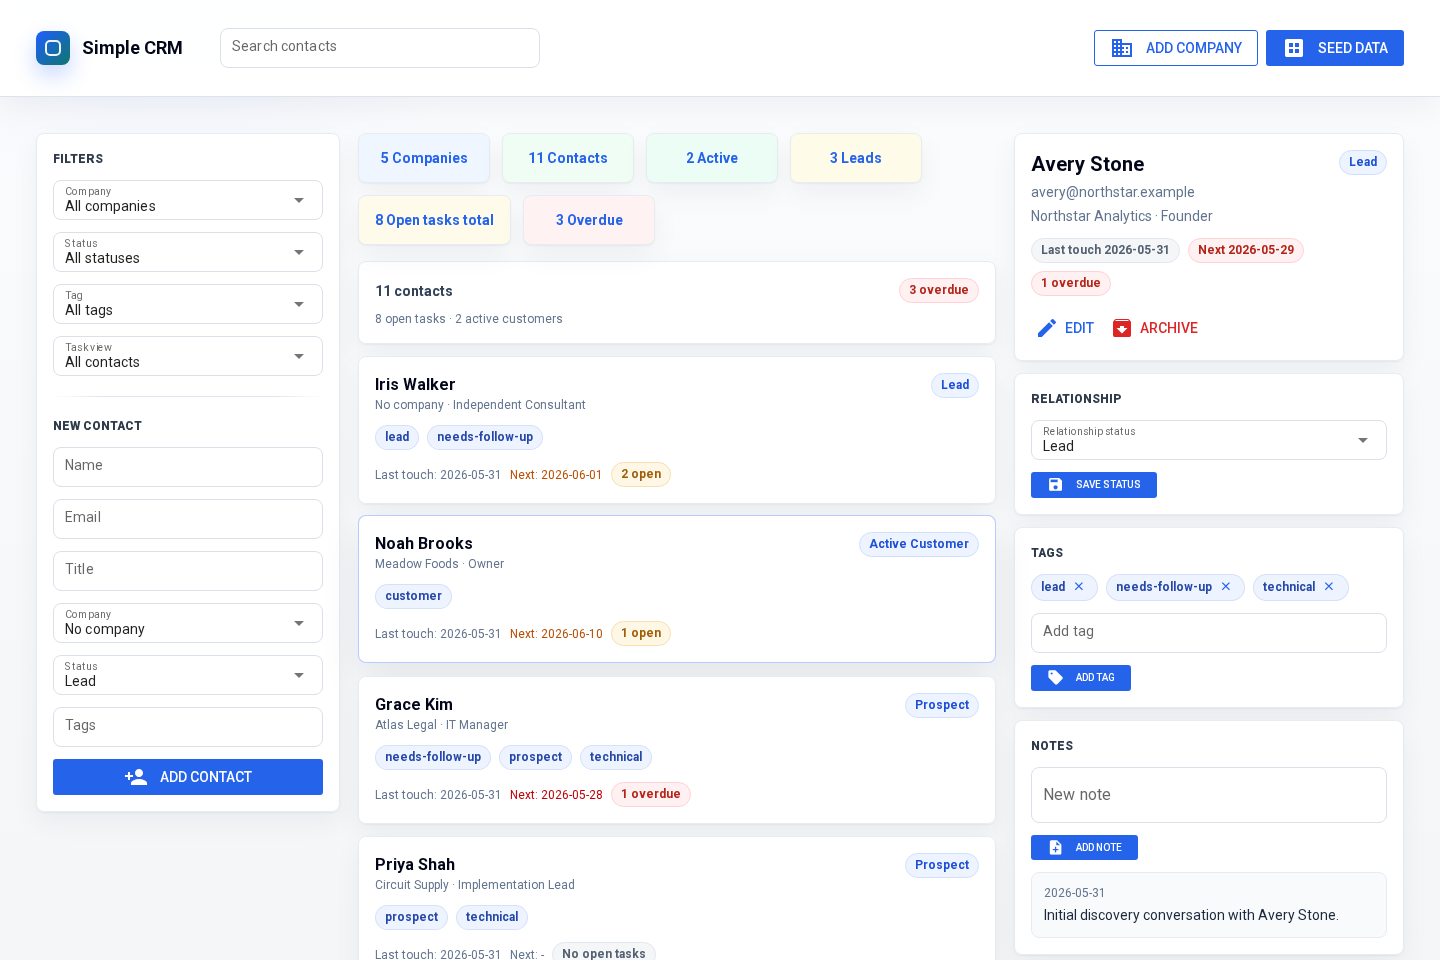
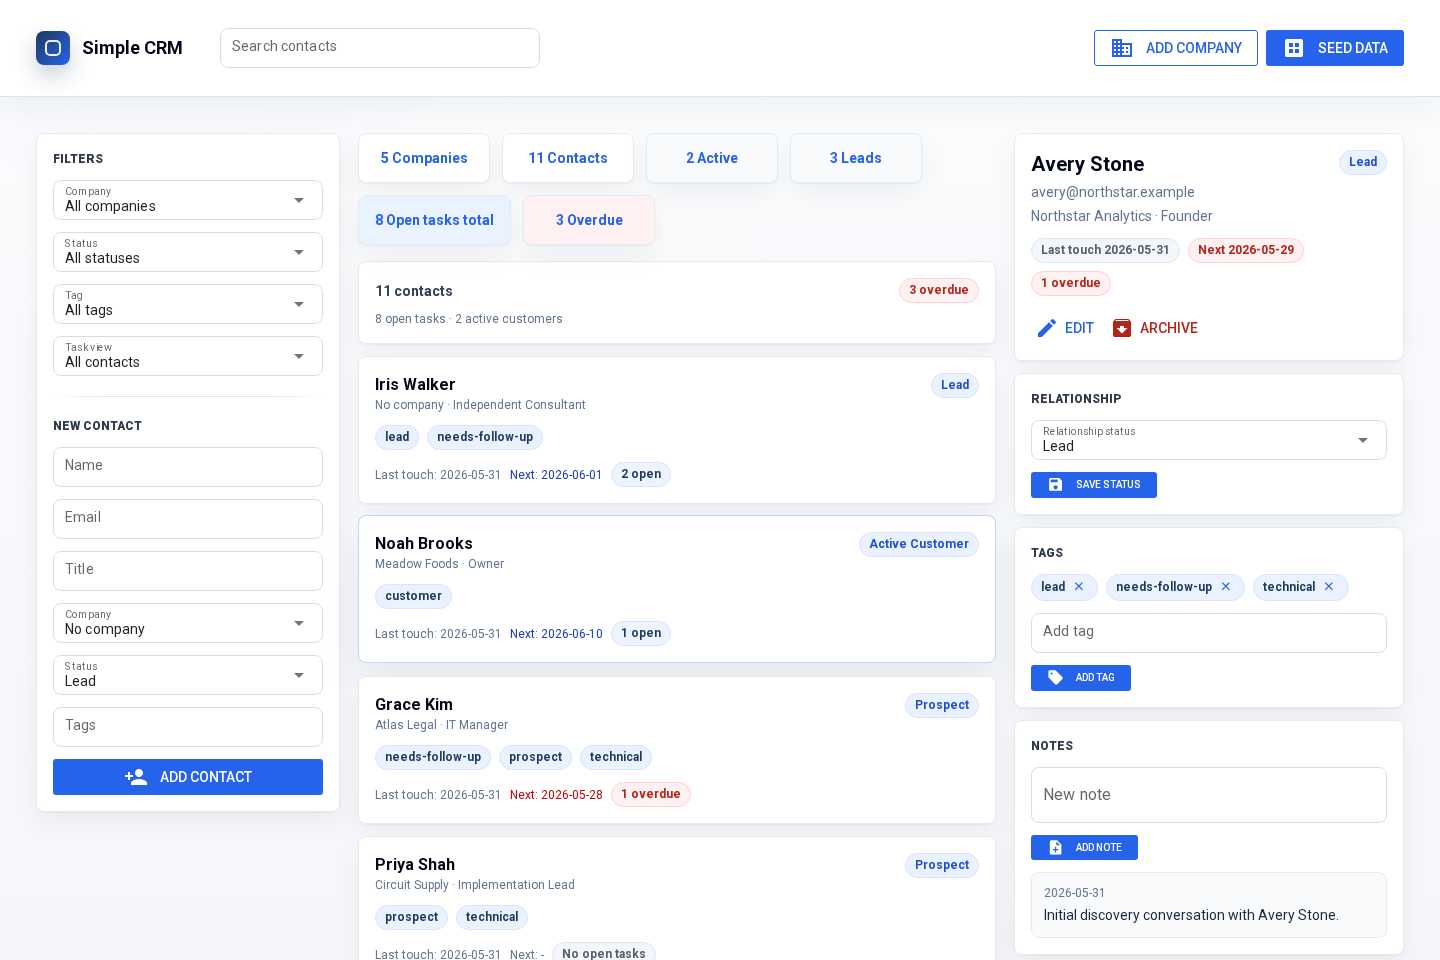
color updates

diff --git a/app.py b/app.py
@@ -112,27 +112,30 @@ def crm_page() -> None:
         "page_size": 10,
     }
 
-    ui.colors(primary="#2563eb", secondary="#0f766e", accent="#d97706", positive="#059669", negative="#dc2626")
+    ui.colors(primary="#2563eb", secondary="#1e3a5f", accent="#647084", positive="#2563eb", negative="#b42318")
     ui.add_head_html(
         """
         <style>
         :root {
-            --crm-bg: #f4f6f8;
+            --crm-bg: #f5f7fa;
             --crm-surface: #ffffff;
             --crm-surface-soft: #f8fafc;
-            --crm-text: #111827;
-            --crm-muted: #667085;
-            --crm-border: #d9e0e8;
-            --crm-border-soft: #e7ecf2;
-            --crm-primary: #1f5eff;
-            --crm-primary-dark: #1747c7;
-            --crm-shadow: 0 16px 42px rgba(15, 23, 42, 0.08);
+            --crm-text: #172033;
+            --crm-muted: #647084;
+            --crm-border: #d8dee8;
+            --crm-border-soft: #e6ebf2;
+            --crm-primary: #2563eb;
+            --crm-primary-dark: #1e3a5f;
+            --crm-primary-soft: #eaf1ff;
+            --crm-danger: #b42318;
+            --crm-danger-soft: #fff1f2;
+            --crm-shadow: 0 16px 42px rgba(23, 32, 51, 0.08);
             --crm-shadow-soft: 0 1px 2px rgba(15, 23, 42, 0.05), 0 10px 28px rgba(15, 23, 42, 0.05);
         }
         body {
             background:
-                radial-gradient(circle at 12% -10%, rgba(31, 94, 255, 0.09), transparent 26rem),
-                linear-gradient(180deg, #fbfcfe 0%, var(--crm-bg) 44%, #eef2f6 100%);
+                radial-gradient(circle at 12% -10%, rgba(37, 99, 235, 0.06), transparent 26rem),
+                linear-gradient(180deg, #fbfcfe 0%, var(--crm-bg) 44%, #edf1f6 100%);
             color: var(--crm-text);
             font-feature-settings: "cv02", "cv03", "cv04", "cv11";
         }
@@ -160,8 +163,8 @@ def crm_page() -> None:
             width: 34px;
             height: 34px;
             border-radius: 8px;
-            background: linear-gradient(135deg, #1f5eff 0%, #0f766e 100%);
-            box-shadow: 0 10px 22px rgba(31, 94, 255, 0.24);
+            background: linear-gradient(135deg, var(--crm-primary-dark) 0%, var(--crm-primary) 100%);
+            box-shadow: 0 10px 22px rgba(30, 58, 95, 0.24);
             position: relative;
         }
         .crm-brand-mark::after {
@@ -184,13 +187,13 @@ def crm_page() -> None:
         }
         .crm-row:hover {
             background: #ffffff;
-            border-color: rgba(31, 94, 255, 0.32);
+            border-color: rgba(37, 99, 235, 0.28);
             box-shadow: var(--crm-shadow);
             transform: translateY(-1px);
         }
         .crm-row-selected {
-            border-color: rgba(31, 94, 255, 0.72);
-            box-shadow: 0 0 0 1px rgba(31, 94, 255, 0.55) inset, var(--crm-shadow-soft);
+            border-color: rgba(37, 99, 235, 0.68);
+            box-shadow: 0 0 0 1px rgba(37, 99, 235, 0.46) inset, var(--crm-shadow-soft);
         }
         .crm-row-selected::before {
             content: "";
@@ -207,20 +210,20 @@ def crm_page() -> None:
             padding: 3px 9px;
             font-size: 12px;
             line-height: 17px;
-            background: #eef4ff;
-            color: #2447a9;
-            border: 1px solid rgba(36, 71, 169, 0.11);
+            background: var(--crm-primary-soft);
+            color: #1e3a5f;
+            border: 1px solid #d6e2ff;
             font-weight: 600;
             max-width: 160px;
             overflow: hidden;
             text-overflow: ellipsis;
             white-space: nowrap;
         }
-        .crm-chip-status { background: #eef4ff; color: #1d4ed8; border-color: #cfe0ff; }
-        .crm-chip-muted { background: #f4f6f8; color: #526071; border-color: #e1e7ef; }
-        .crm-chip-open { background: #fff7e6; color: #a15c07; border-color: #f7dfae; }
-        .crm-chip-overdue { background: #fff1f2; color: #b42318; border-color: #ffd0d5; }
-        .crm-chip-complete { background: #ecfdf3; color: #067647; border-color: #b7efc8; }
+        .crm-chip-status { background: var(--crm-primary-soft); color: #1d4ed8; border-color: #d6e2ff; }
+        .crm-chip-muted { background: #f3f6fa; color: #526071; border-color: #dfe6ef; }
+        .crm-chip-open { background: #edf3ff; color: #1e3a5f; border-color: #d6e2ff; }
+        .crm-chip-overdue { background: var(--crm-danger-soft); color: var(--crm-danger); border-color: #ffd0d5; }
+        .crm-chip-complete { background: #f3f6fa; color: #526071; border-color: #dfe6ef; }
         .crm-metric {
             min-width: 132px;
             justify-content: flex-start;
@@ -232,7 +235,7 @@ def crm_page() -> None:
             transition: border-color 140ms ease, box-shadow 140ms ease, transform 140ms ease;
         }
         .crm-metric:hover {
-            border-color: rgba(31, 94, 255, 0.28);
+            border-color: rgba(37, 99, 235, 0.24);
             box-shadow: var(--crm-shadow);
             transform: translateY(-1px);
         }
@@ -334,15 +337,15 @@ def crm_page() -> None:
         if overdue_count:
             return (f"{overdue_count} overdue", "crm-chip-overdue", "text-red-700")
         if contact.open_task_count:
-            return (f"{contact.open_task_count} open", "crm-chip-open", "text-amber-700")
+            return (f"{contact.open_task_count} open", "crm-chip-open", "text-blue-800")
         return ("No open tasks", "crm-chip-muted", "text-slate-500")
 
     def task_status(task) -> tuple[str, str, str]:
         if task.completed:
-            return ("Completed", "crm-chip-complete", "text-green-700")
+            return ("Completed", "crm-chip-complete", "text-slate-600")
         if task.is_overdue():
             return ("Overdue", "crm-chip-overdue", "text-red-700")
-        return ("Open", "crm-chip-open", "text-amber-700")
+        return ("Open", "crm-chip-open", "text-blue-800")
 
     def status_chip(status: object) -> None:
         ui.label(status_label(status)).classes("crm-chip crm-chip-status")
@@ -351,12 +354,12 @@ def crm_page() -> None:
         metrics_container.clear()
         counts = crm.counts()
         metrics = [
-            ("Companies", counts["companies"], "#eff6ff", show_companies),
-            ("Contacts", counts["contacts"], "#f0fdf4", lambda: show_contacts()),
-            ("Active", counts["active_customers"], "#ecfdf5", lambda: show_contacts(status="active_customer")),
-            ("Leads", counts["leads"], "#fefce8", lambda: show_contacts(status="lead")),
-            ("Open tasks total", counts["open_tasks"], "#fffbeb", lambda: show_tasks(TASK_FILTER_OPEN)),
-            ("Overdue", counts["overdue_tasks"], "#fef2f2", lambda: show_tasks(TASK_FILTER_OVERDUE)),
+            ("Companies", counts["companies"], "#ffffff", show_companies),
+            ("Contacts", counts["contacts"], "#ffffff", lambda: show_contacts()),
+            ("Active", counts["active_customers"], "#f8fafc", lambda: show_contacts(status="active_customer")),
+            ("Leads", counts["leads"], "#f8fafc", lambda: show_contacts(status="lead")),
+            ("Open tasks total", counts["open_tasks"], "#eaf1ff", lambda: show_tasks(TASK_FILTER_OPEN)),
+            ("Overdue", counts["overdue_tasks"], "#fff1f2", lambda: show_tasks(TASK_FILTER_OVERDUE)),
         ]
         with metrics_container:
             for label, value, background, on_click in metrics:

diff --git a/simple_crm/models.py b/simple_crm/models.py
@@ -11,23 +11,28 @@ import dbzero as db0
 from simple_crm.config import DATA_PREFIX
 from simple_crm.utils import PageResult
 
-CONTACT_STATUS_VALUES = [
-    "lead",
-    "prospect",
-    "active_customer",
-    "partner",
-    "inactive",
-    "archived",
-]
-ContactStatus = db0.enum("ContactStatus", values=CONTACT_STATUS_VALUES)
-CONTACT_STATUSES = [
-    ContactStatus.lead,
-    ContactStatus.prospect,
-    ContactStatus.active_customer,
-    ContactStatus.partner,
-    ContactStatus.inactive,
-    ContactStatus.archived,
-]
+ContactStatus = db0.enum(
+    "ContactStatus",
+    values=["lead", "prospect", "active_customer", "partner", "inactive", "archived"],
+)
+
+
+def _contact_statuses() -> tuple[object, ...]:
+    enum_all = getattr(ContactStatus, "all", None)
+    if callable(enum_all):
+        return tuple(enum_all())
+    return tuple(ContactStatus.values())
+
+
+class _ContactStatuses:
+    def __iter__(self):
+        return iter(_contact_statuses())
+
+    def __contains__(self, status: object) -> bool:
+        return status in _contact_statuses()
+
+
+CONTACT_STATUSES = _ContactStatuses()
 
 TASK_FILTER_ALL = "all"
 TASK_FILTER_OPEN = "open"
@@ -53,13 +58,13 @@ def _check_status(status: object) -> object:
         return status
     if isinstance(status, str):
         clean_status = status.strip()
-        if clean_status in CONTACT_STATUS_VALUES:
+        if clean_status in {str(contact_status) for contact_status in CONTACT_STATUSES}:
             return getattr(ContactStatus, clean_status)
     raise ValueError(f"Unknown contact status: {status!r}")
 
 
 def _status_key(status: object) -> str:
-    if isinstance(status, str) and status.strip() in CONTACT_STATUS_VALUES:
+    if isinstance(status, str) and status.strip() in {str(contact_status) for contact_status in CONTACT_STATUSES}:
         return status.strip()
     checked_status = _check_status(status)
     return str(checked_status)
@@ -253,8 +258,8 @@ class CRM:
     """The single durable root object for the Simple CRM app."""
 
     companies_by_name: dict[str, Company] = field(default_factory=dict)
-    contacts_by_company: dict[str, list[Contact]] = field(default_factory=dict)
-    contacts_by_status: dict[str, list[Contact]] = field(default_factory=dict)
+    contacts_by_company: dict[Company, list[Contact]] = field(default_factory=dict)
+    contacts_by_status: dict[object, list[Contact]] = field(default_factory=dict)
     contacts_by_tag: dict[str, list[Contact]] = field(default_factory=dict)
     contacts_by_next_task_date: db0.index = field(default_factory=db0.index)
 
@@ -283,9 +288,6 @@ class CRM:
         if old_key != new_key:
             self.companies_by_name.pop(old_key, None)
             self.companies_by_name[new_key] = company
-            contacts = self.contacts_by_company.pop(old_key, [])
-            if contacts:
-                self.contacts_by_company[new_key] = contacts
 
     def add_contact(
         self,
@@ -315,16 +317,16 @@ class CRM:
         contact.update_basics(name, email, title, company)
         if old_company is not company:
             if old_company is not None:
-                self._dict_list_remove(self.contacts_by_company, self._company_index_key(old_company), contact)
+                self._dict_list_remove(self.contacts_by_company, old_company, contact)
             if company is not None:
-                self._dict_list_add(self.contacts_by_company, self._company_index_key(company), contact)
+                self._dict_list_add(self.contacts_by_company, company, contact)
 
     def change_contact_status(self, contact: Contact, status: object) -> None:
         old_status = contact.status
         contact.change_status(status)
         if not _is_status(old_status, contact.status):
-            self._dict_list_remove(self.contacts_by_status, _status_key(old_status), contact)
-            self._dict_list_add(self.contacts_by_status, _status_key(contact.status), contact)
+            self._dict_list_remove(self.contacts_by_status, _check_status(old_status), contact)
+            self._dict_list_add(self.contacts_by_status, contact.status, contact)
 
     def archive_contact(self, contact: Contact) -> None:
         self.change_contact_status(contact, ContactStatus.archived)
@@ -531,9 +533,9 @@ class CRM:
     ) -> set[Contact]:
         candidate_sets: list[set[Contact]] = []
         if company is not None:
-            candidate_sets.append(set(self.contacts_by_company.get(self._company_index_key(company), [])))
+            candidate_sets.append(set(self.contacts_by_company.get(company, [])))
         if status:
-            candidate_sets.append(set(self.contacts_by_status.get(_status_key(status), [])))
+            candidate_sets.append(set(self.contacts_by_status.get(_check_status(status), [])))
         if tag:
             clean_tag = tag.strip().lower()
             candidate_sets.append(set(self.contacts_by_tag.get(clean_tag, [])))
@@ -543,8 +545,8 @@ class CRM:
 
     def _index_contact(self, contact: Contact) -> None:
         if contact.company is not None:
-            self._dict_list_add(self.contacts_by_company, self._company_index_key(contact.company), contact)
-        self._dict_list_add(self.contacts_by_status, _status_key(contact.status), contact)
+            self._dict_list_add(self.contacts_by_company, contact.company, contact)
+        self._dict_list_add(self.contacts_by_status, contact.status, contact)
         for tag in contact.tags:
             self._dict_list_add(self.contacts_by_tag, tag, contact)
         if contact.next_task_due_at is not None:
@@ -585,18 +587,15 @@ class CRM:
         stop = start + page_size
         return page, page_size, start, stop
 
-    def _company_index_key(self, company: Company) -> str:
-        return self._company_key(company.name)
-
     def _company_key(self, name: str) -> str:
         return name.strip().lower()
 
-    def _dict_list_add(self, index: dict[str, list[Contact]], key: str, contact: Contact) -> None:
+    def _dict_list_add(self, index: dict[object, list[Contact]], key: object, contact: Contact) -> None:
         contacts = index.setdefault(key, [])
         if contact not in contacts:
             contacts.append(contact)
 
-    def _dict_list_remove(self, index: dict[str, list[Contact]], key: str, contact: Contact) -> None:
+    def _dict_list_remove(self, index: dict[object, list[Contact]], key: object, contact: Contact) -> None:
         contacts = index.get(key)
         if not contacts:
             return

diff --git a/tests/test_contact_search_filters.py b/tests/test_contact_search_filters.py
@@ -17,6 +17,8 @@ def test_search_filters_by_company_status_tag_and_text(crm):
     assert crm.search_contacts(tag="technical") == [avery]
     assert crm.search_contacts(query="renewal") == [jon]
     assert crm.search_contacts(query="northstar") == [avery]
+    assert crm.contacts_by_company[northstar] == [avery]
+    assert crm.contacts_by_status[ContactStatus.active_customer] == [jon]
 
 
 def test_contact_status_uses_dbzero_enum_with_string_inputs(crm):
